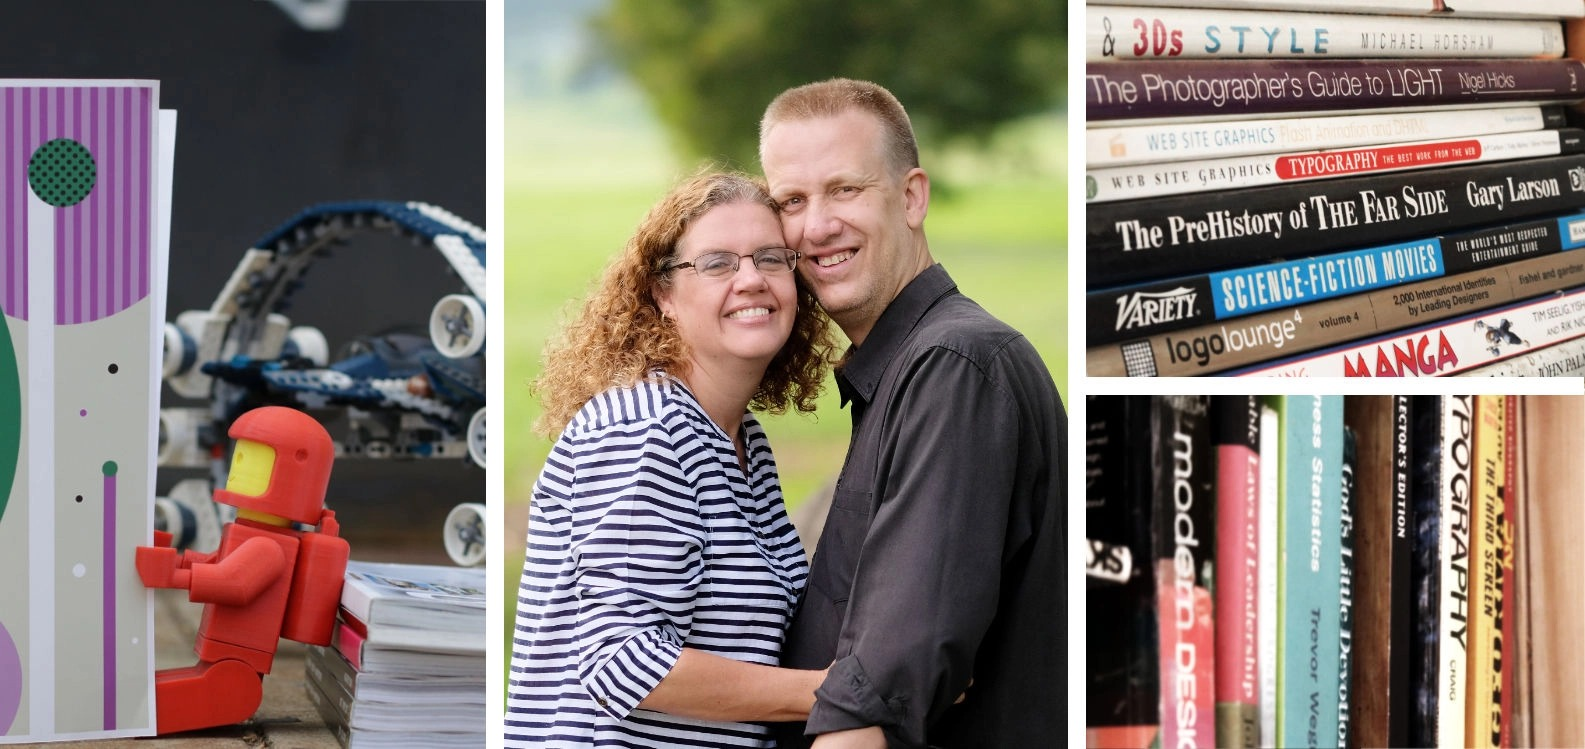
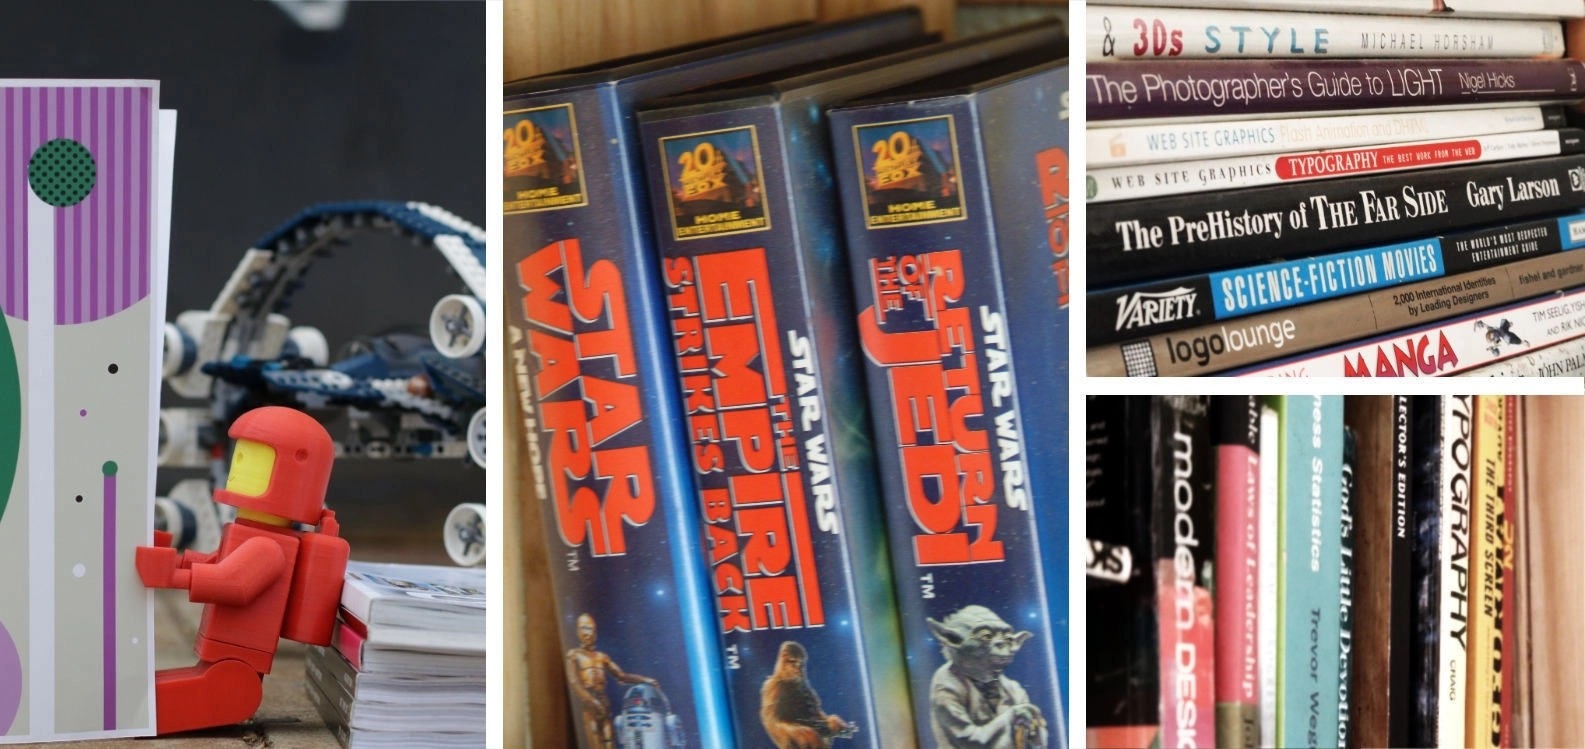
Updated images for the about us page

diff --git a/src/components/sections/about/OurTeamSection.tsx b/src/components/sections/about/OurTeamSection.tsx
@@ -46,7 +46,12 @@ const OurTeamSection = () => {
 
           <div className="team-member">
             <div className="team-member-image">
-              {/* Placeholder for Josh's image */}
+              <Image
+                src="/Josh-Image.jpeg"
+                alt="Josh - Developer"
+                fill
+                sizes="(max-width: 768px) 100vw, 33vw"
+              />
               <div className="member-info">
                 <h3>JOSH</h3>
                 <p className="team-role">Developer</p>

diff --git a/src/components/sections/about/AboutHeroSection.tsx b/src/components/sections/about/AboutHeroSection.tsx
@@ -25,7 +25,7 @@ const AboutHeroSection = () => {
       </div>
       <div className="about-hero-image">
         <Image
-          src="/About Us - Hero Image.webp"
+          src="/About-Us-Hero.jpeg"
           alt="Six Foot Design Studio"
           width={1600}
           height={1600}
